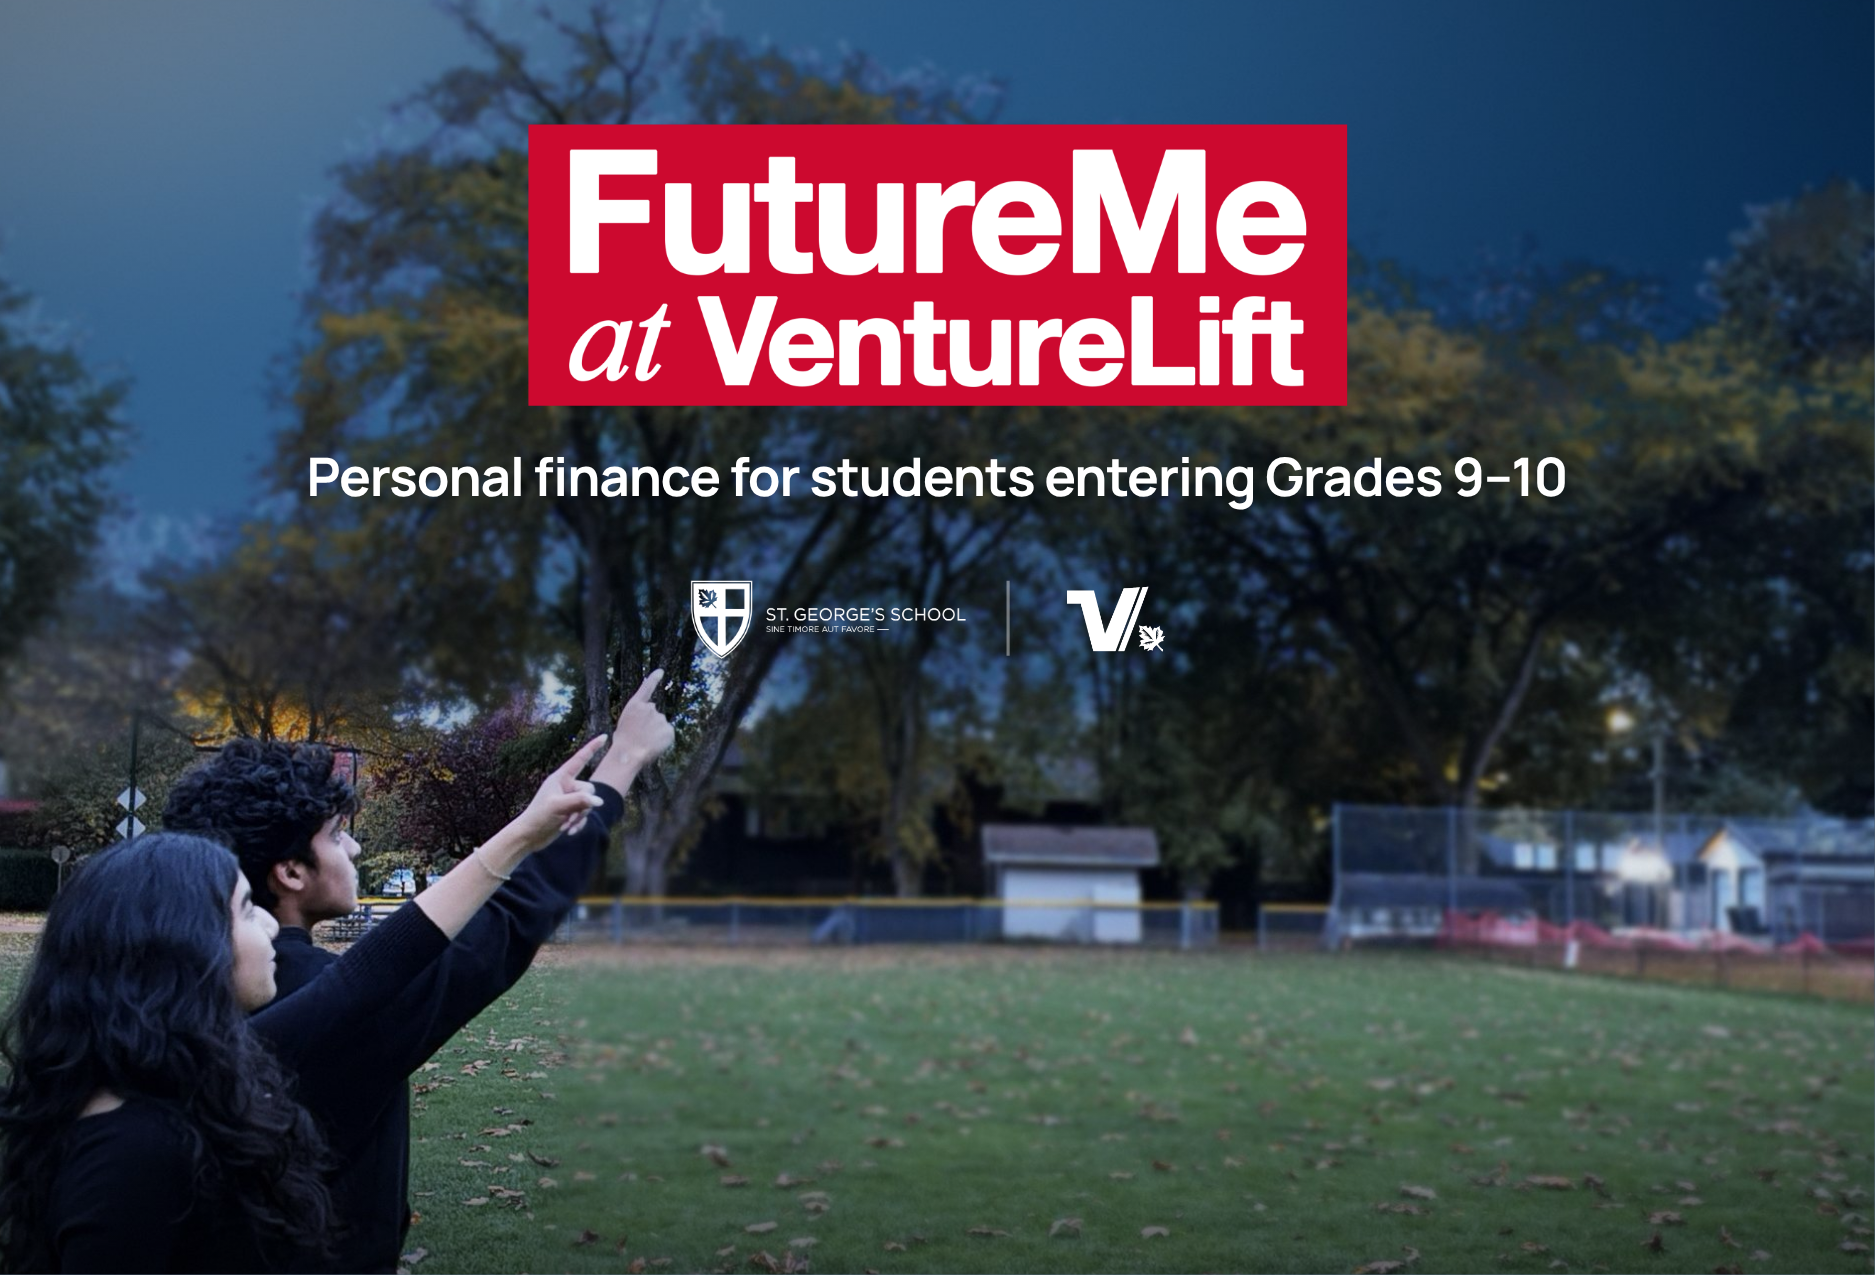
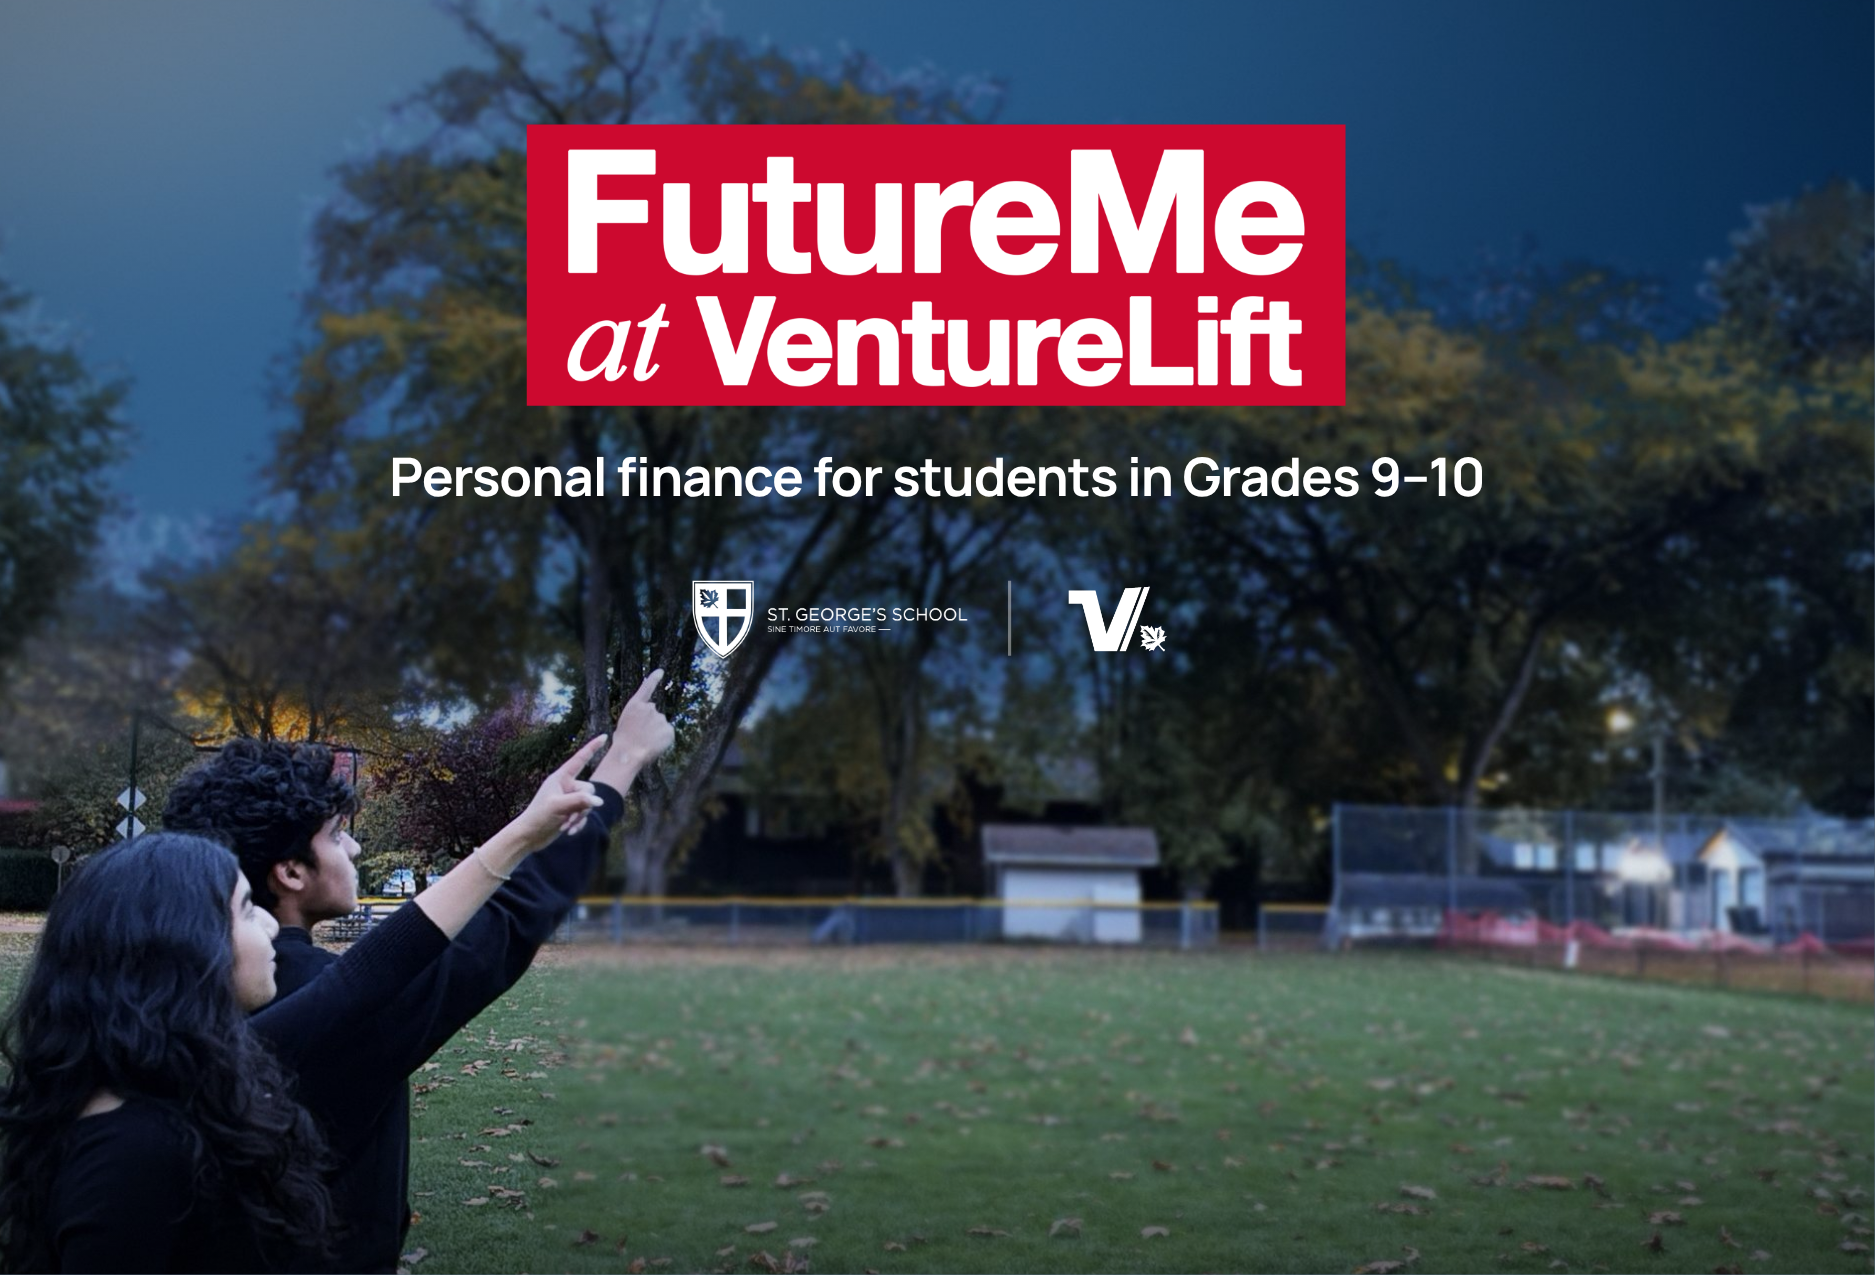
Postcard: students in Grades 9–10

diff --git a/postcards/postcards.html b/postcards/postcards.html
@@ -60,7 +60,7 @@ body { font-family: 'Inter', sans-serif; }
 <section class="card front" id="front">
   <div class="logo">
     <span class="red-box"><img alt="FutureMe at VentureLift" src="../future.png"/></span>
-    <h1 class="headline">Personal finance for students entering Grades 9–10</h1>
+    <h1 class="headline">Personal finance for students in Grades 9–10</h1>
     <span class="sub"><img alt="St. George's School" class="saint" src="../saint.png"/><span class="divider"></span><img alt="VentureLift" class="venture" src="../venture.png"/></span>
   </div>
 </section>
